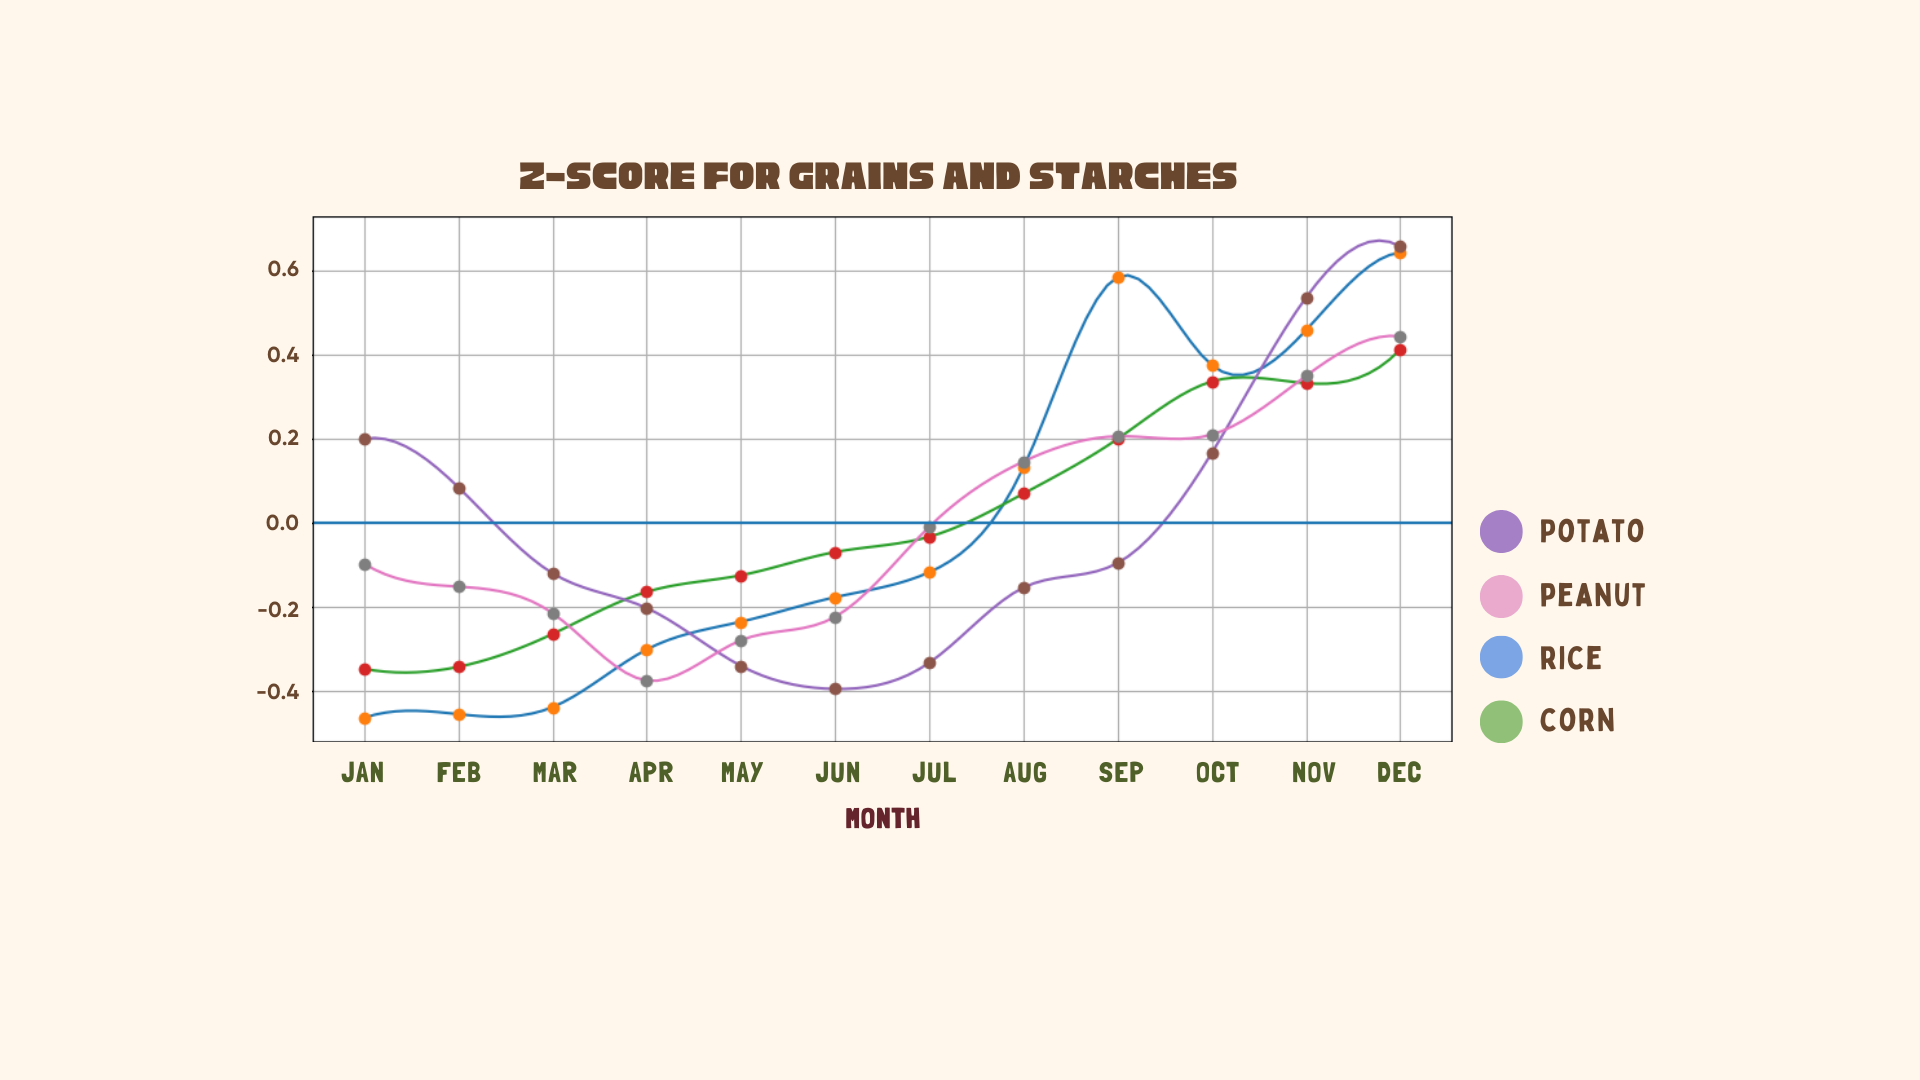
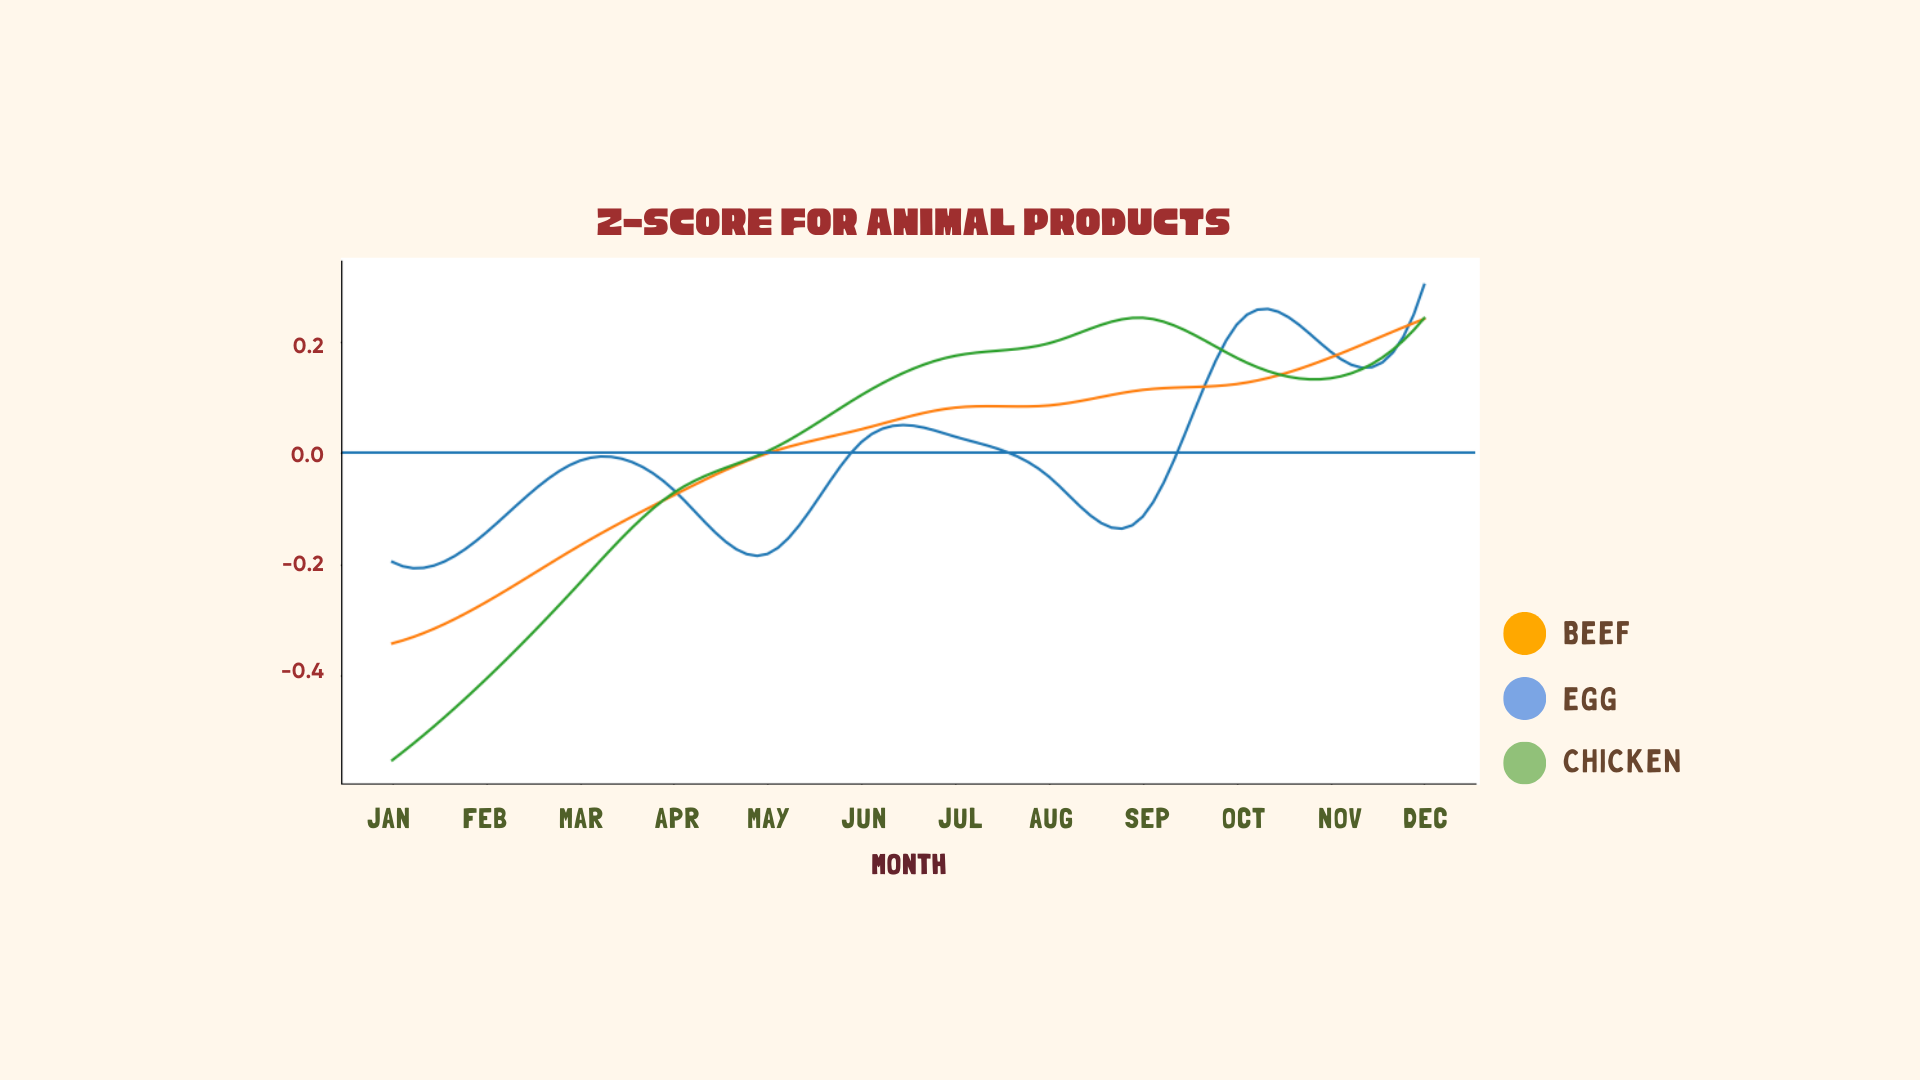
feat: edit EDA components

diff --git a/src/lib/Plots.svelte b/src/lib/Plots.svelte
@@ -1,30 +1,29 @@
 <script>
-	import { onMount } from 'svelte';
 	import { Carousel, Thumbnails } from 'flowbite-svelte';
 
 	const images = [
 		{
-			src: 'corr_mat.png',
+			src: 'correlation_matrix.png',
 			title: '<strong>Res. Qn. 1</strong>: Crop price correlation matrix'
 		},
 		{
-			src: '18.png',
+			src: '21.png',
 			title: '<strong>Res. Qn. 2</strong>: Z-score for animal products'
 		},
 		{
-			src: '19.png',
+			src: '22.png',
 			title: '<strong>Res. Qn. 2</strong>: Z-score for seafood'
 		},
 		{
-			src: '20.png',
+			src: '23.png',
 			title: '<strong>Res. Qn. 2</strong>: Z-score for fruit, vegetables, roots'
 		},
 		{
-			src: '21.png',
+			src: '24.png',
 			title: '<strong>Res. Qn. 2</strong>: Z-score for grains and starches'
 		},
 		{
-			src: 'nutshell.png',
+			src: 'nutshell_plot.png',
 			title: 'Nutshell plot'
 		}
 	];
@@ -32,7 +31,6 @@
 	export let id;
 
 	let index = 0;
-	let image;
 	let forward = true;
 
 	let carousel;
@@ -51,9 +49,13 @@
 				bind:index
 				imgClass="aspect-video object-center block"
 				class="rounded-md w-full border-4 min-h-[480px] bg-gray-200 flex justify-center items-center"
-				on:change={({ detail }) => (image = detail)}
 			></Carousel>
-			<Thumbnails {images} {forward} bind:index imgClass="opacity-20" />
+			<Thumbnails
+				{images}
+				{forward}
+				bind:index
+				imgClass="opacity-80 flex border border-black"
+			/>
 			<div class="rounded h-10 bg-gray-300 p-2 my-2 text-center">
 				{@html images[index].title}
 			</div>

diff --git a/src/lib/Exploration.svelte b/src/lib/Exploration.svelte
@@ -26,7 +26,20 @@
 			</CardImage>
 			<CardImage src="pearson.png">
 				<span slot="heading">Pearson Correlation</span>
-				<span slot="desc">test</span>
+				<span slot="desc"
+					>We used the Pearson Correlation test to find correlations between two different
+					agricultural products.</span
+				>
+			</CardImage>
+			<CardImage src="kruskal.png">
+				<span slot="heading">Hypothesis Testing Results</span>
+				<span slot="desc">
+					We chose key products to represent each category. These key products have
+					notable positive or negative correlation coefficients with Well-Milled Rice.
+					Using the Kruskal-Wallis Test for seasonality, we found out that <strong
+						>NONE
+					</strong>of the products are affected by seasonal trends.
+				</span>
 			</CardImage>
 		</div>
 	</div>

diff --git a/src/lib/CardImage.svelte b/src/lib/CardImage.svelte
@@ -1,5 +1,5 @@
 <script>
-	export let src;
+	export let src = '';
 </script>
 
 <!-- change max-w-sm to other dimensions-->
